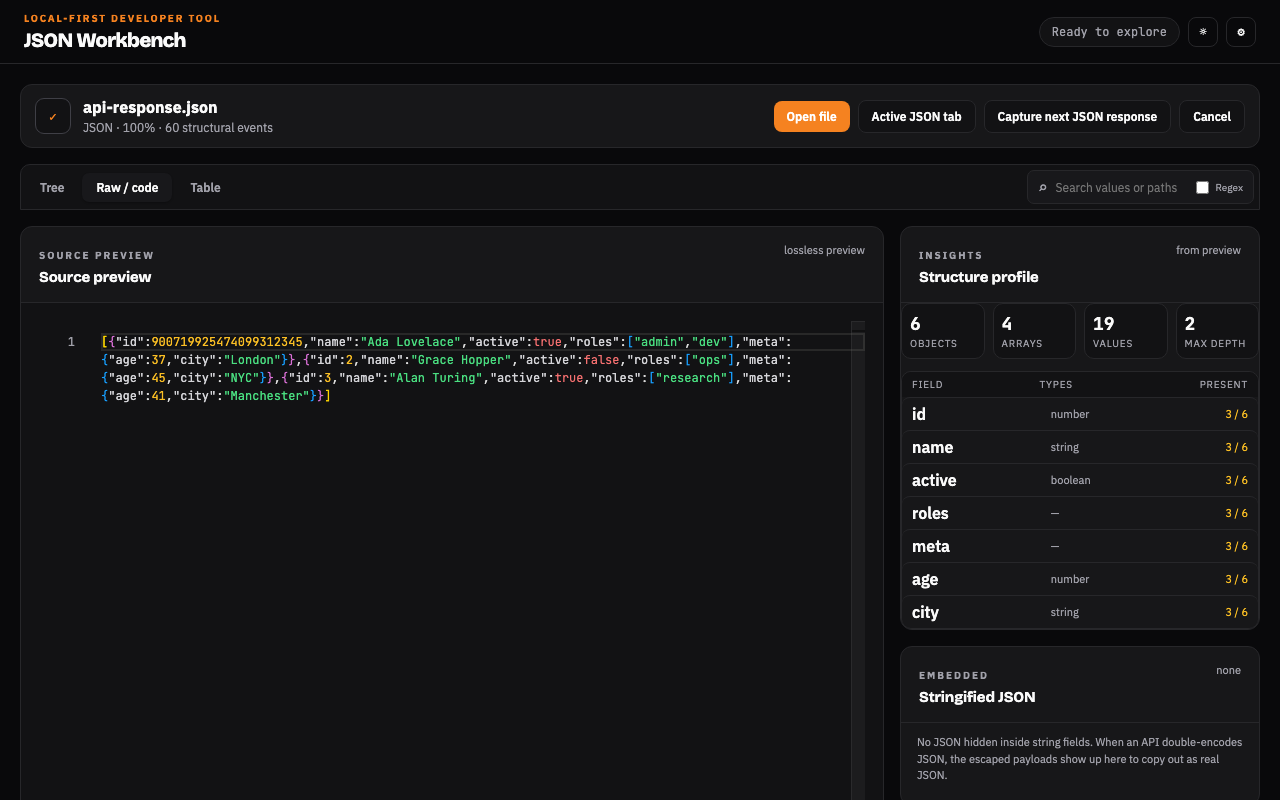
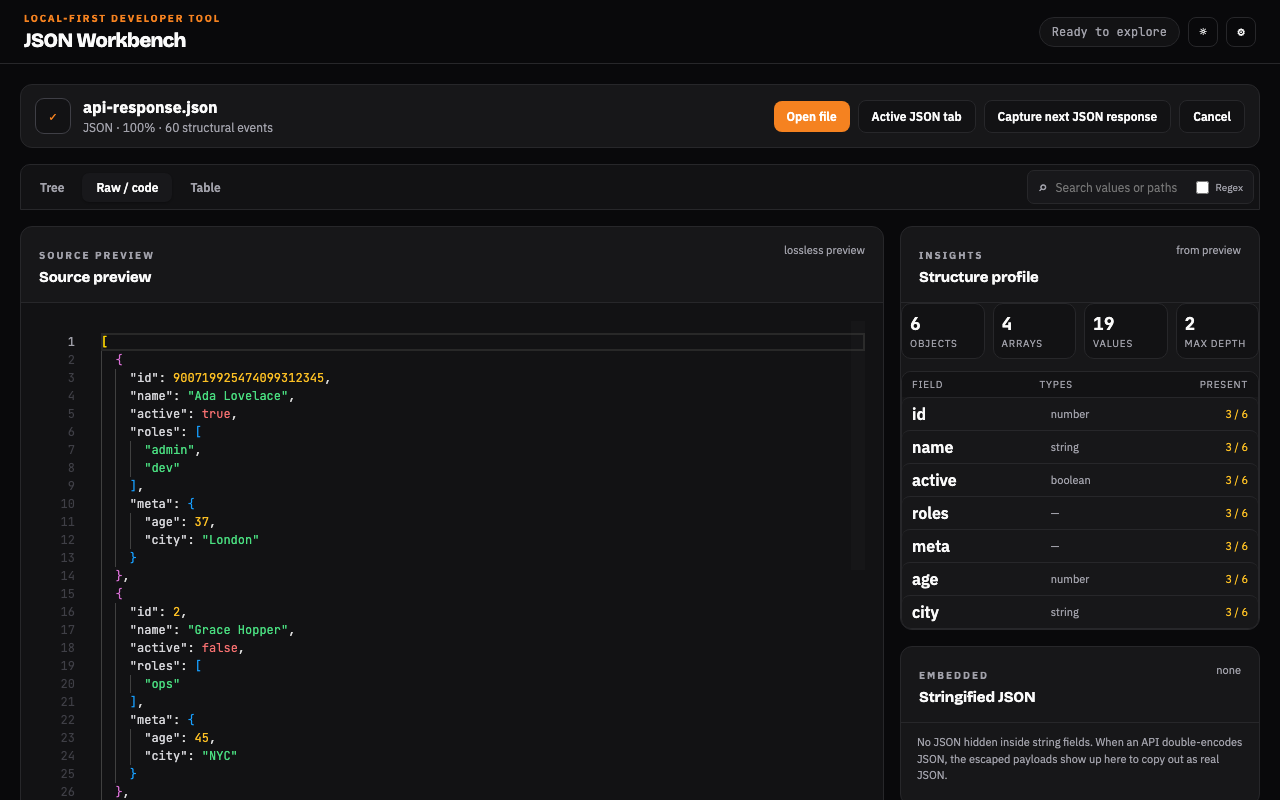
fix(store): fill the dead editor pane in 03-raw-monaco.png (#14)
The Raw/code view renders the uploaded file's verbatim bytes. The
sample was minified onto one line, so it word-wrapped to ~4 lines and
left the rest of the 560px Monaco pane a flat black rectangle (42.5%
of the frame by a 16px flat-luminance grid scan, well past the ~25%
line other store screenshots hold to). Pretty-printing the same three
records (same data, just formatted) fills the pane with real,
readable JSON down to the visible edge, and drops the largest
contiguous flat region to ~29%, in line with 02-table.png's accepted
30.4%.

Tree/Table/SQL/diff all parse the structural JSON and are unaffected
by the raw text's formatting; 01/02/06 come out byte-identical.

Also swaps the 05-local-sql.png demo query off the oversized `id`
column: DuckDB-WASM coerces it to a lossy double, which undercut the
lossless-number pitch made right next to it by 01 and 02. The query
now selects name/active/meta.city instead.

diff --git a/tests/store_screenshots.py b/tests/store_screenshots.py
@@ -1,3 +1,4 @@
+import json
 import struct
 import subprocess
 import time
@@ -11,13 +12,21 @@ OUT.mkdir(parents=True, exist_ok=True)
 STORE_WIDTH = 1280
 STORE_HEIGHT = 800
 
-SAMPLE_JSON = (
-    '[{"id":900719925474099312345,"name":"Ada Lovelace","active":true,'
-    '"roles":["admin","dev"],"meta":{"age":37,"city":"London"}},'
-    '{"id":2,"name":"Grace Hopper","active":false,"roles":["ops"],'
-    '"meta":{"age":45,"city":"NYC"}},{"id":3,"name":"Alan Turing",'
-    '"active":true,"roles":["research"],"meta":{"age":41,"city":"Manchester"}}]'
-)
+SAMPLE_RECORDS = [
+    {"id": 900719925474099312345, "name": "Ada Lovelace", "active": True,
+     "roles": ["admin", "dev"], "meta": {"age": 37, "city": "London"}},
+    {"id": 2, "name": "Grace Hopper", "active": False, "roles": ["ops"],
+     "meta": {"age": 45, "city": "NYC"}},
+    {"id": 3, "name": "Alan Turing", "active": True, "roles": ["research"],
+     "meta": {"age": 41, "city": "Manchester"}},
+]
+
+# Pretty-printed (not minified): the Raw/code view renders the uploaded
+# file's verbatim bytes, while Tree/Table/SQL/diff all work off the parsed
+# structure, so this only changes what 03-raw-monaco.png shows. Minified,
+# these three records word-wrap to ~4 lines and leave the rest of the
+# Monaco pane a dead black rectangle; pretty-printed they fill it.
+SAMPLE_JSON = json.dumps(SAMPLE_RECORDS, indent=2)
 
 
 def png_size(path: Path) -> tuple[int, int]:
@@ -83,9 +92,13 @@ try:
 
         # SELECT * exposes a pre-existing DuckDB-WASM rendering issue on
         # nested array/object columns (function-source-looking junk), so
-        # scope the demo query to scalar columns for a clean result table.
+        # scope the demo query to scalar columns (dot into the "meta"
+        # struct for "city") for a clean result table. Also skips "id":
+        # DuckDB-WASM coerces that oversized integer to a lossy double,
+        # which would contradict the lossless-number pitch made by
+        # 01-tree-insights.png and 02-table.png.
         pg.get_by_label("SQL query").fill(
-            "SELECT id, name, active FROM read_json_auto('source.json') LIMIT 100"
+            "SELECT name, active, meta.city AS city FROM read_json_auto('source.json') LIMIT 100"
         )
         pg.get_by_role("button", name="Run local SQL").click()
         pg.locator(".sql-result").wait_for(timeout=15000)
